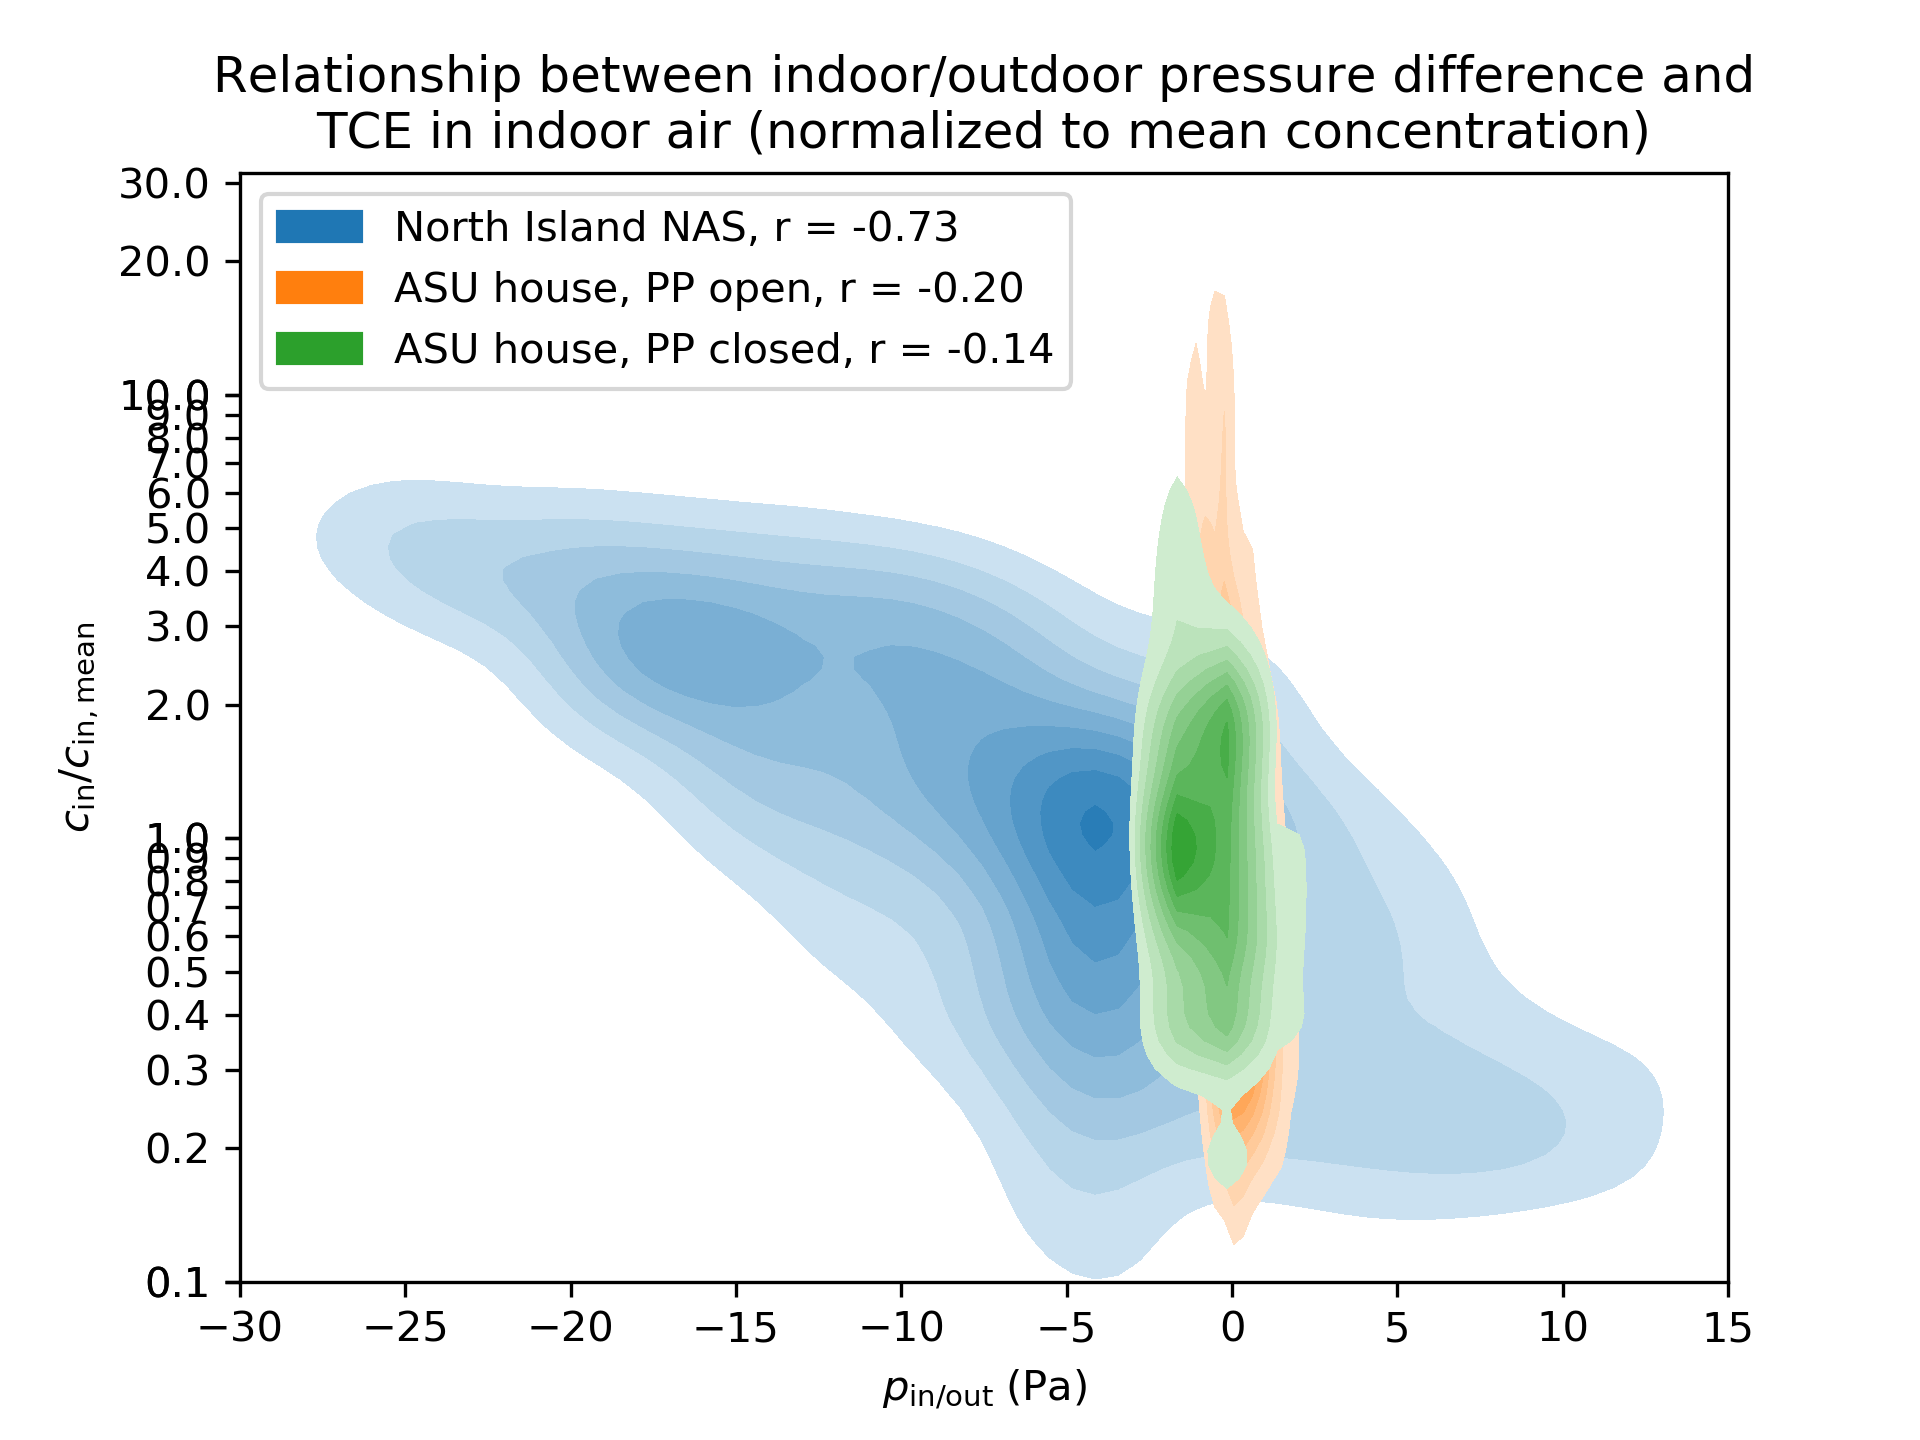
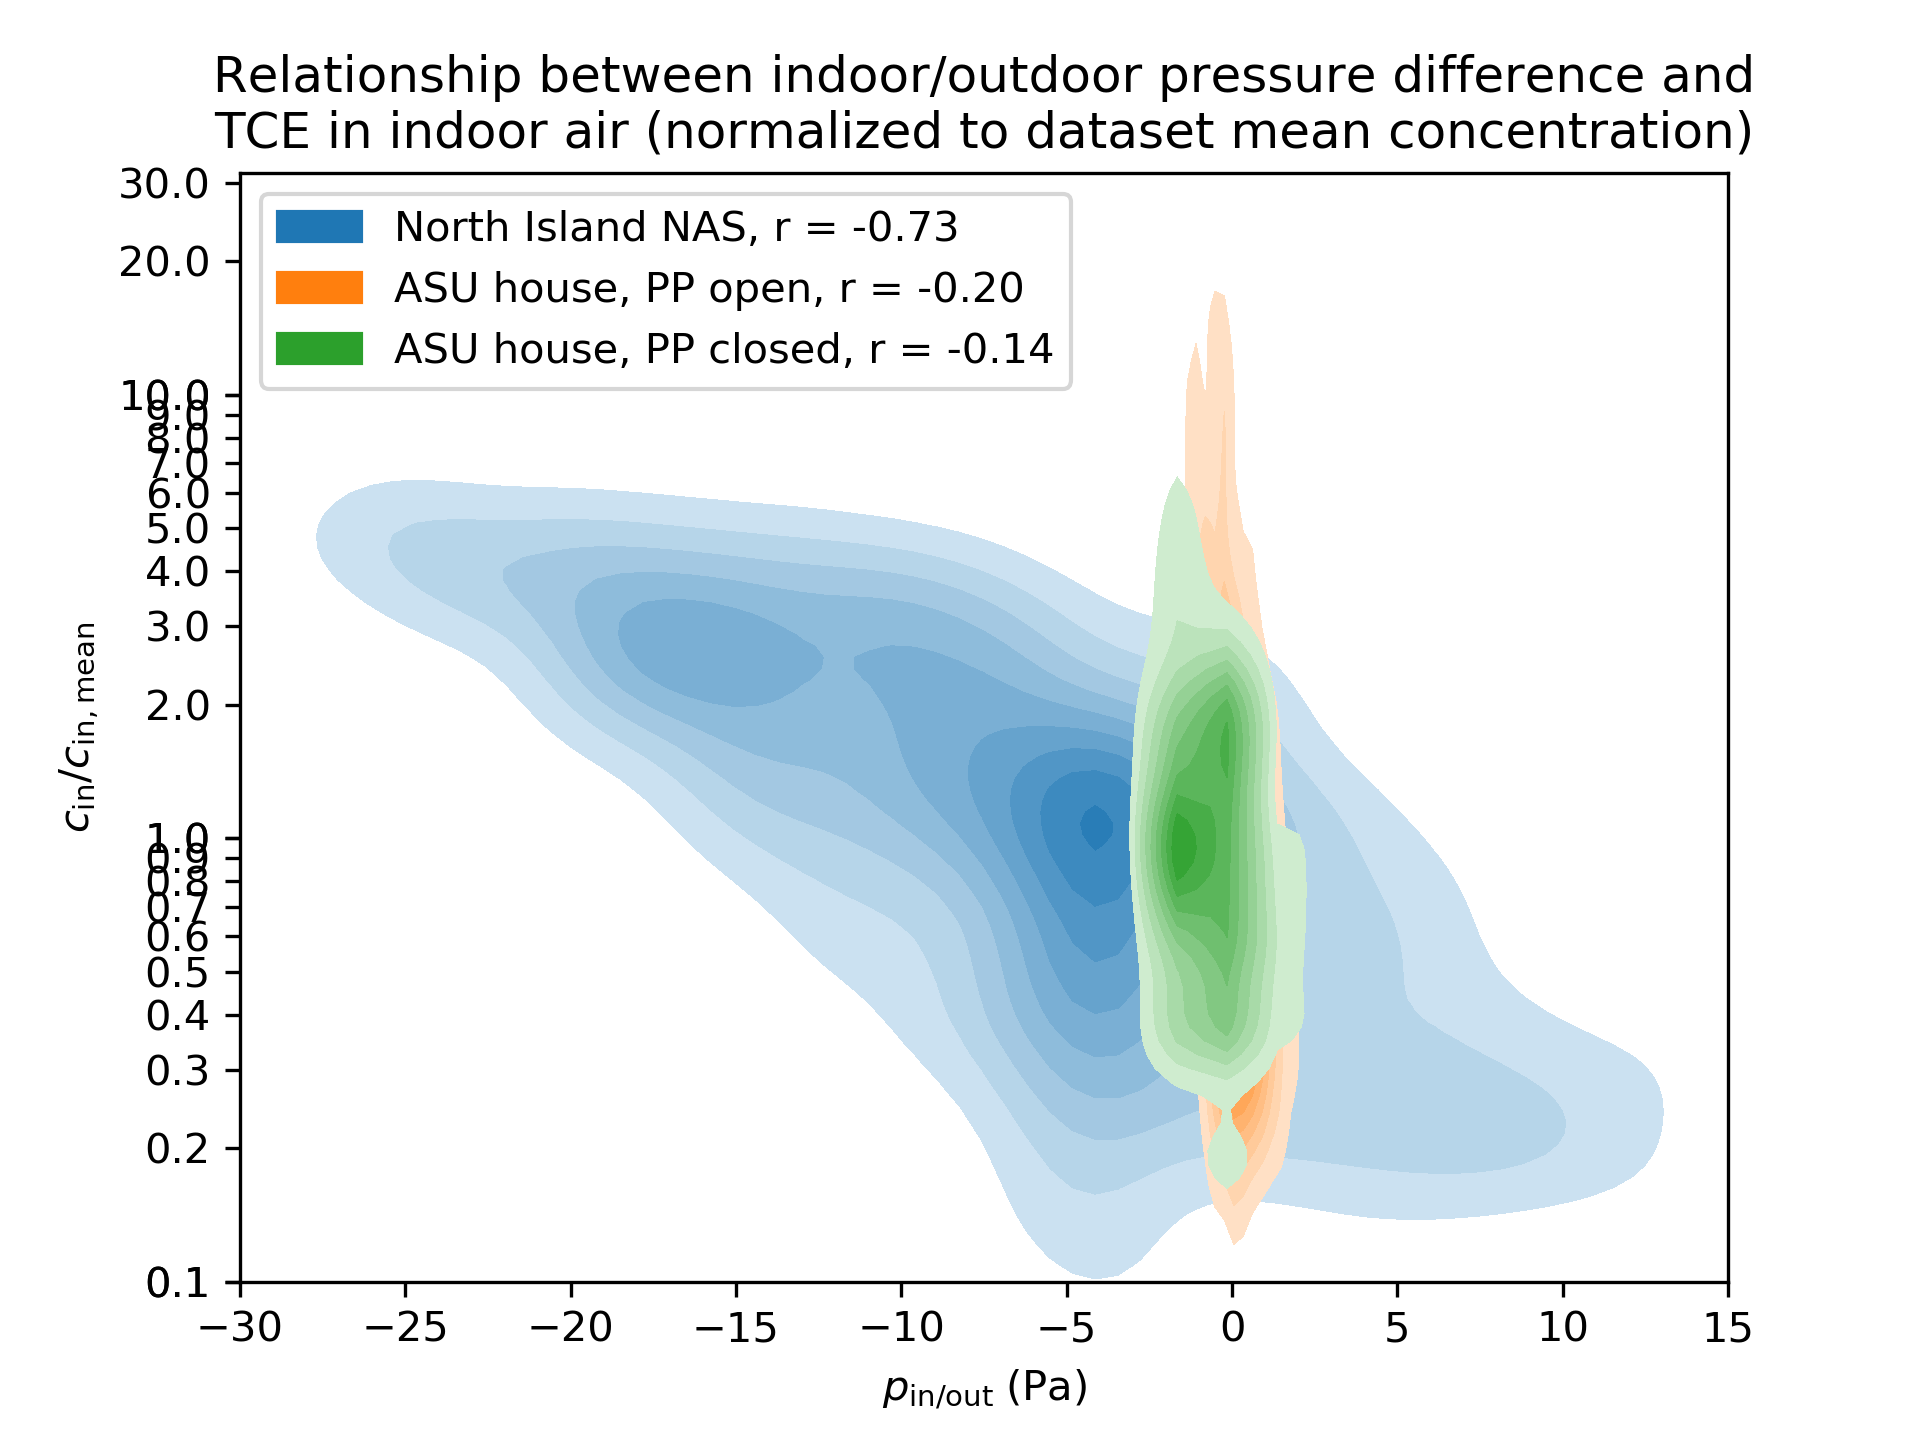
Adjusted plots

Changed region(s): [[0.125, 0.0625, 0.9062, 0.125]]

diff --git a/code/figures.py b/code/figures.py
@@ -64,7 +64,7 @@ class Figure1:
             ylim=[-1,1.5],
             xlabel='$p_\\mathrm{in/out} \\; \\mathrm{(Pa)}$',
             ylabel='$c_\\mathrm{in}/c_\\mathrm{in,mean}$',
-            title='Relationship between indoor/outdoor pressure difference and\nTCE in indoor air (normalized to mean concentration)',
+            title='Relationship between indoor/outdoor pressure difference and\nTCE in indoor air (normalized to dataset mean concentration)',
             #yscale='log',
             yticks=yticks,
             yticklabels=yticklabels,
@@ -90,5 +90,20 @@ def get_log_ticks(start, stop):
 
     return ticks, labels
 
+
+class AttenuationSubslab:
+    def __init__(self):
+        asu = pd.read_csv('./data/asu_house.csv')
+
+
+        fig, (ax1, ax2) = plt.subplots()
+
+
+        for phase in asu['Phase'].unique()
+        sns.kdeplot(
+            data=asu.loc[asu['Phase']==phase]
+        )
+
+        return
 
 Figure1(y_data_log=True,norm_conc=True)

diff --git a/code/resampling.py b/code/resampling.py
@@ -62,7 +62,7 @@ g = sns.catplot(
     kind="point",
     data=resampled,
     legend_out=False,
-    # aspect=1.5,
+    aspect=1.5,
 )
 
 my_ytick_labels = ["%1.1f" % y_tick for y_tick in 10.0**g.ax.get_yticks()]
@@ -71,5 +71,7 @@ g.ax.set_xlabel('Period')
 g.ax.set_ylabel('$c_\\mathrm{max}/c_\\mathrm{min}$')
 g.ax.set_title('Maximum variability within a given period')
 plt.tight_layout()
-# plt.show()
+
 plt.savefig('./figures/temporal_variability/resampling.pdf', dpi=300)
+plt.savefig('./figures/temporal_variability/resampling.png', dpi=300)
+plt.show()
